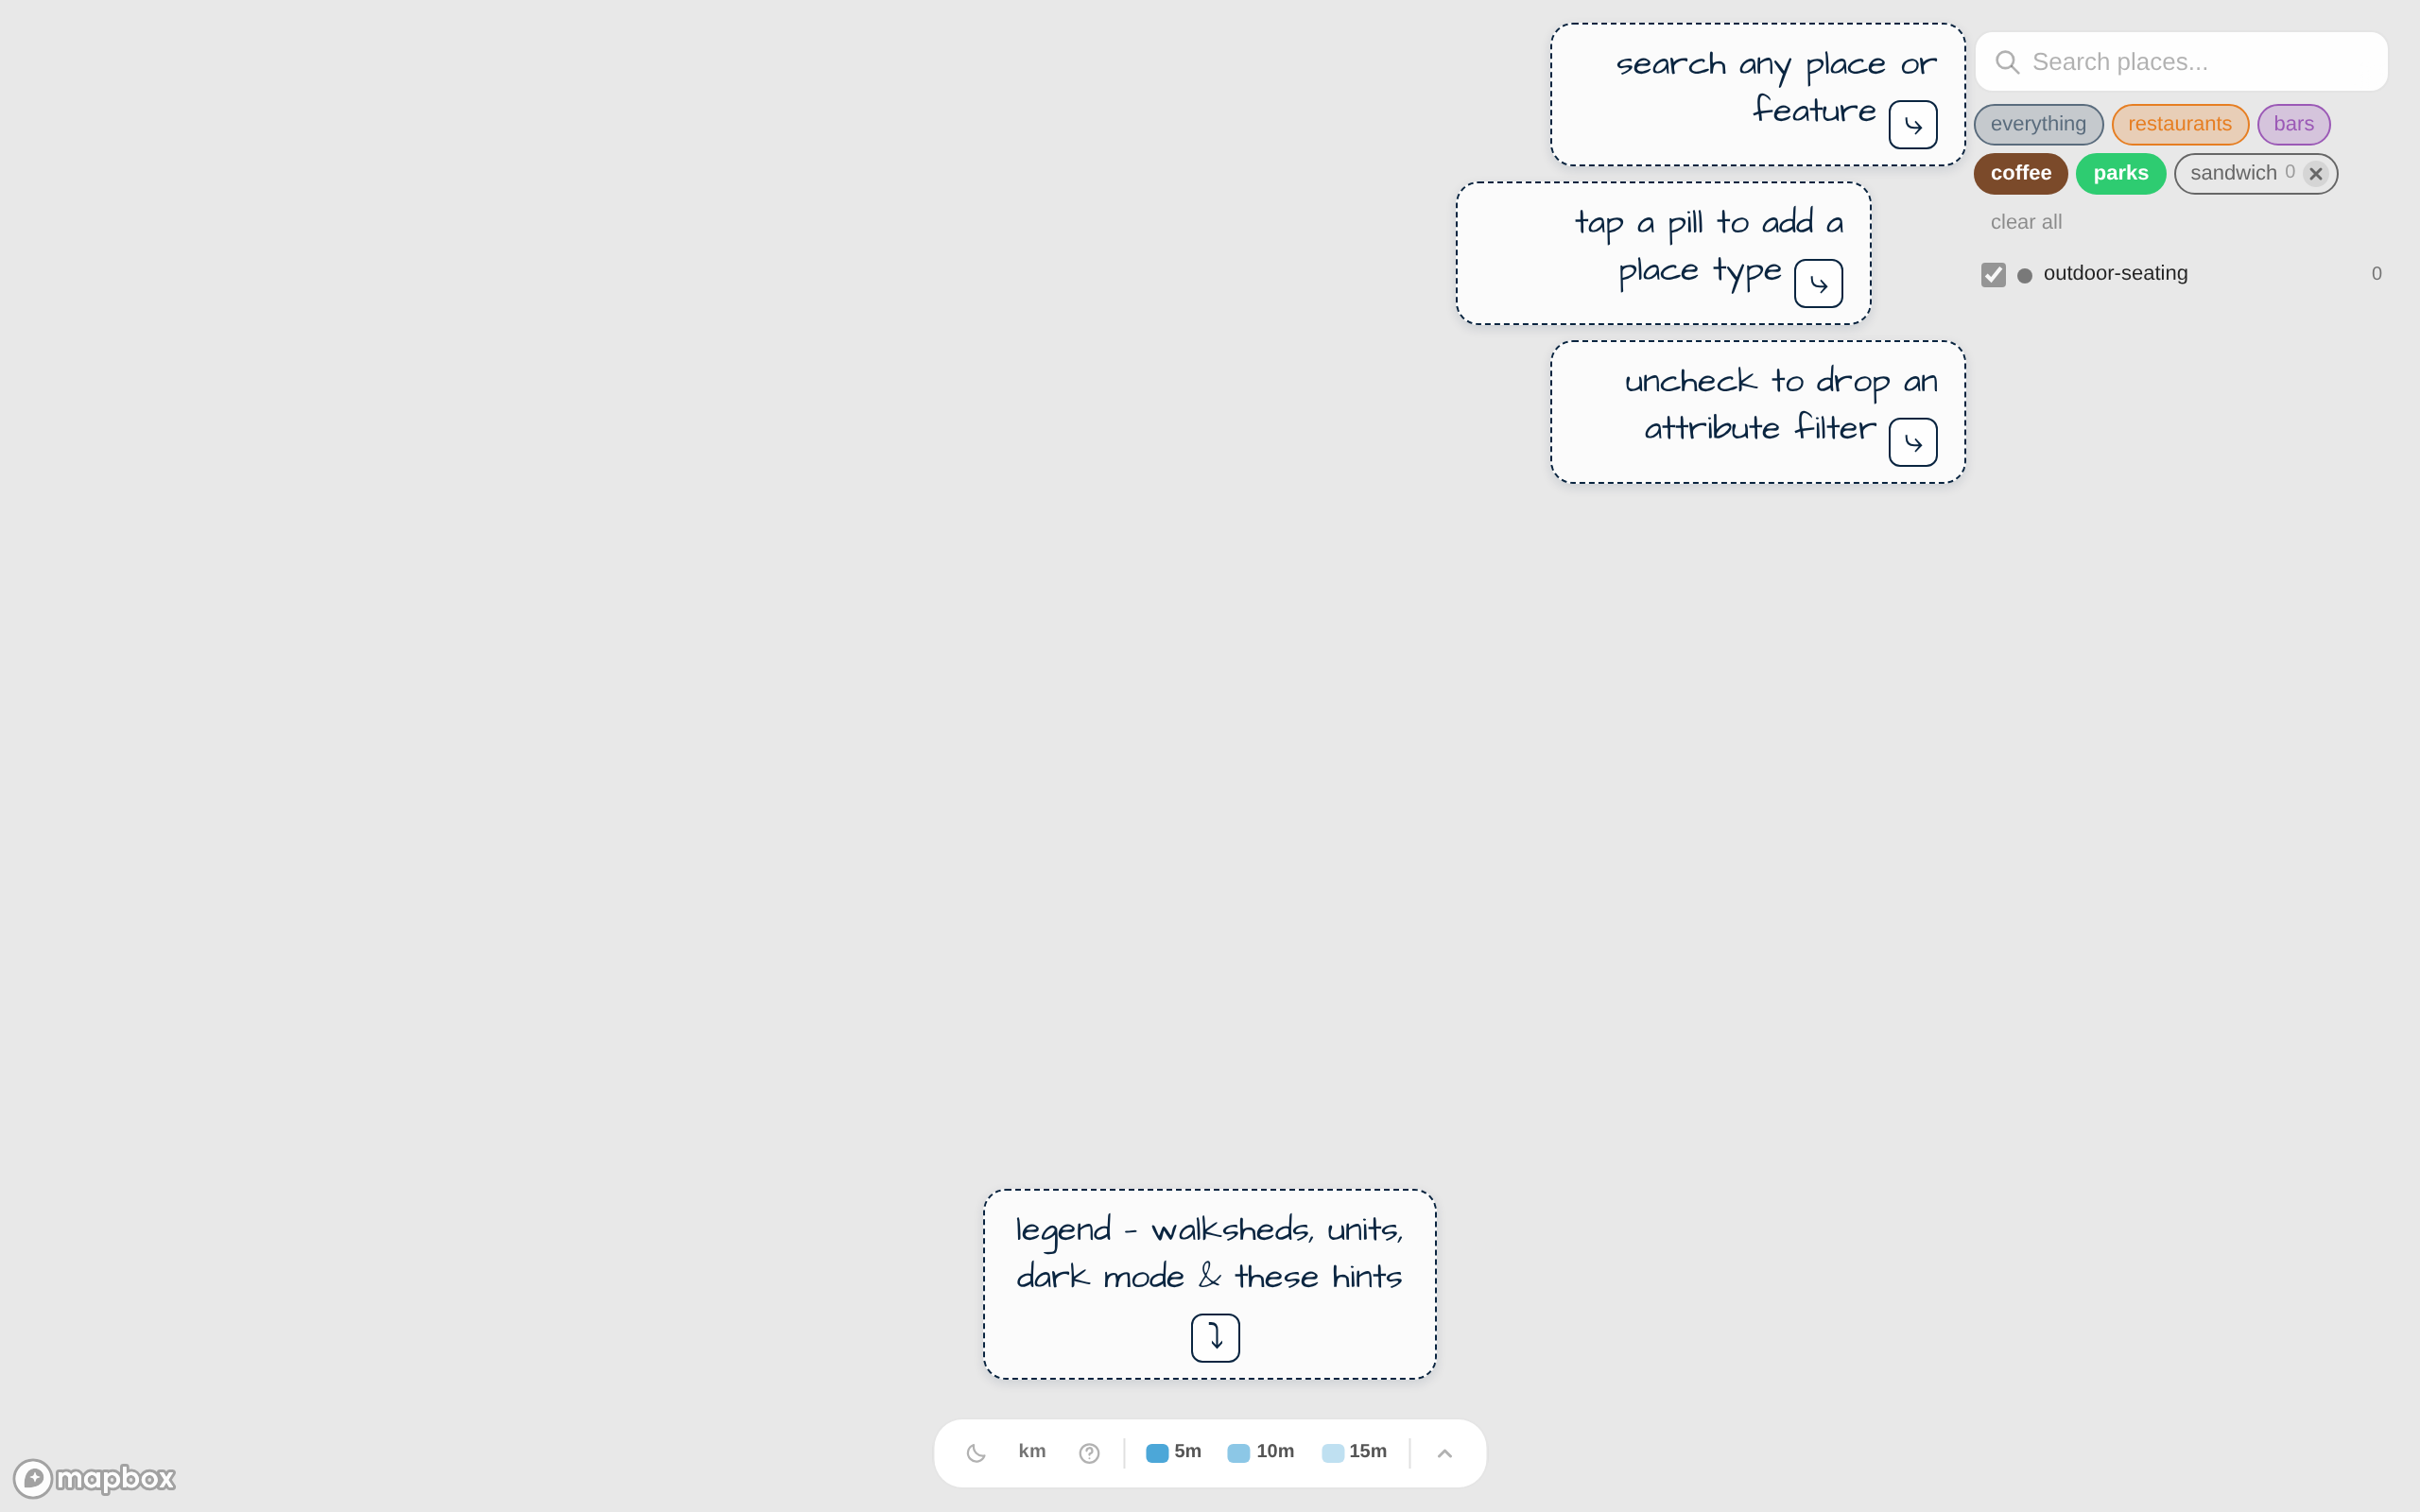
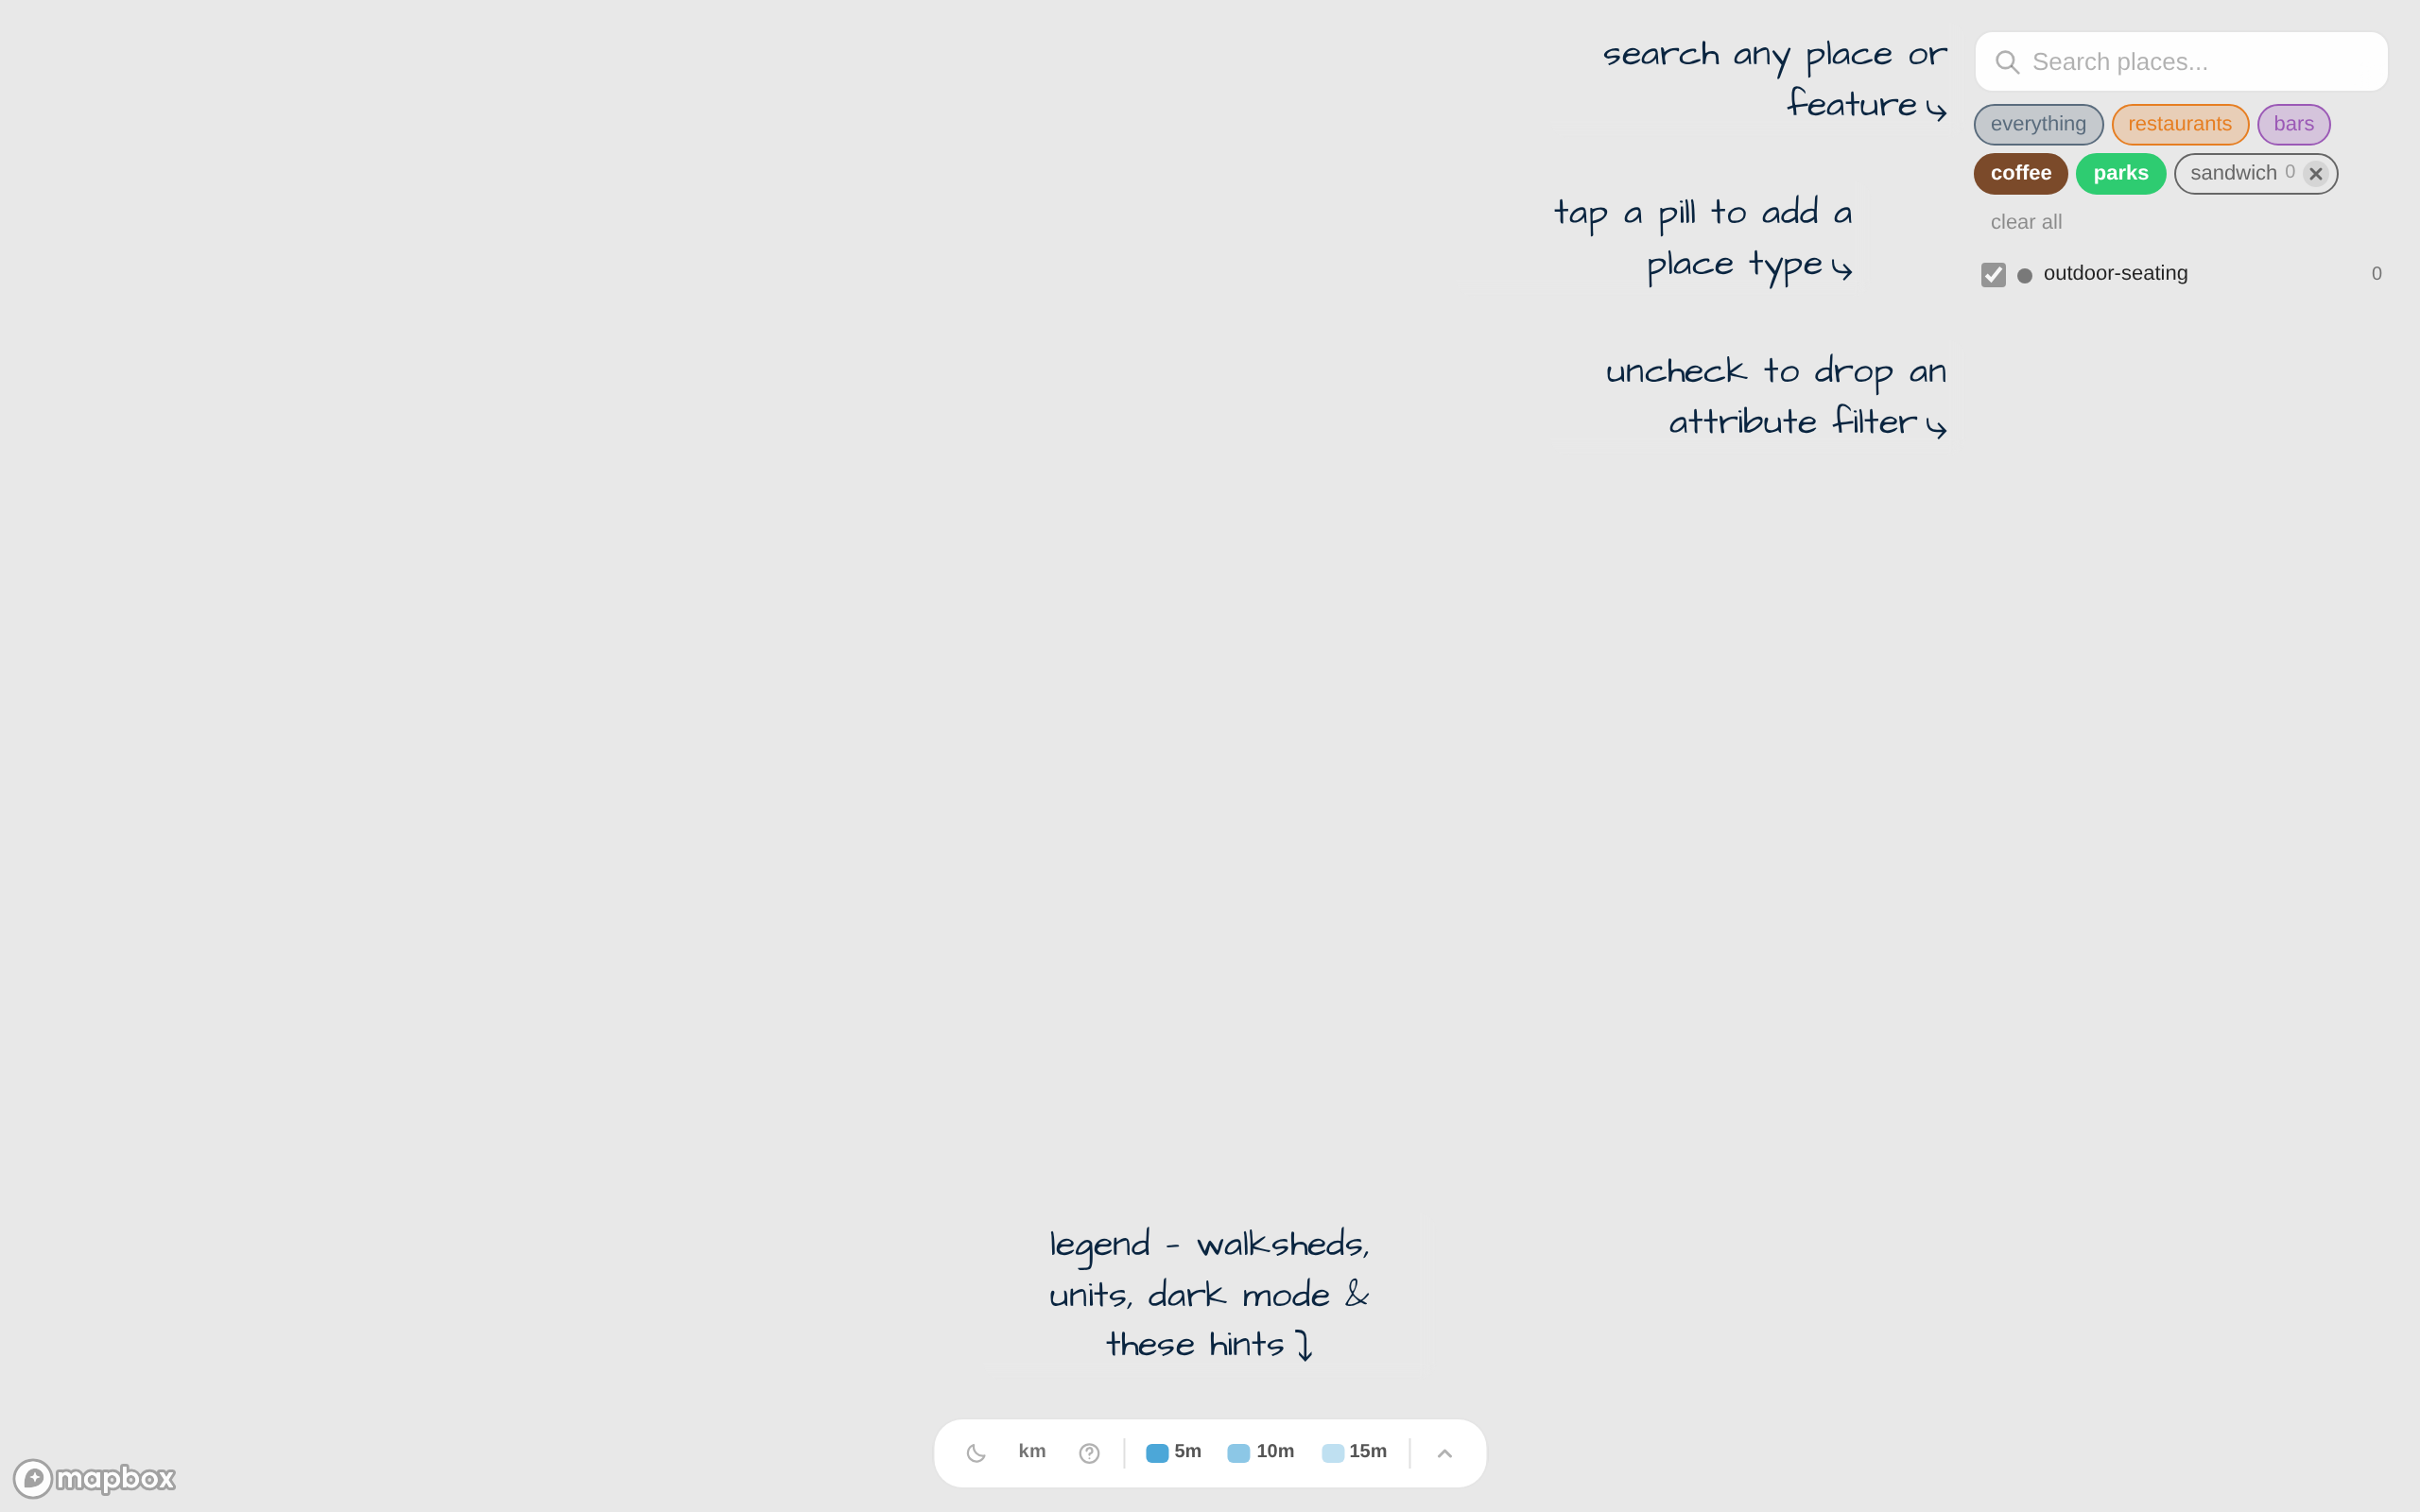
Drop the dashed-card chrome around hint labels and arrow glyphs
Strip the dashed border, padded background, and box-shadow from the
label, and the bordered chip styling from the kbd arrow. The hint is
now just the Architects Daughter text plus the curved cardinal glyph,
rendered on a transparent backdrop with a small backdrop-filter blur
for legibility over real map tiles.

The kbd retains its inline placement at the end of the label content
but loses the keyboard-key affordance, so it reads as the final
typographic token of the sentence rather than a separate UI chip.

Updated demo screenshots for both expanded and collapsed states.

https://claude.ai/code/session_01BJfRR196Lb954yx5ttjYH3

diff --git a/src/walksheds.css b/src/walksheds.css
@@ -603,46 +603,27 @@ body,
 .hint-label {
   display: inline-block;
   font-family: 'Architects Daughter', 'Comic Sans MS', cursive;
-  font-size: 18px;
+  font-size: 19px;
   font-weight: 400;
   line-height: 1.4;
   max-width: 240px;
   color: inherit;
-  padding: 8px 14px;
-  border: 1.5px dashed currentColor;
-  border-radius: 12px;
-  background: rgba(255, 255, 255, 0.82);
-  backdrop-filter: blur(2px);
-  box-shadow: 0 2px 6px rgba(10, 37, 64, 0.12);
+  padding: 4px 10px;
+  border-radius: 10px;
+  backdrop-filter: blur(4px);
+  -webkit-backdrop-filter: blur(4px);
 }
 
-.app.dark .hint-label {
-  background: rgba(10, 20, 35, 0.72);
-  box-shadow: 0 2px 6px rgba(0, 0, 0, 0.4);
-}
-
-/* kbd-styled glyph chip matching the junction-turn arrows on the station
-   pill (.pill-hint kbd). Inlined at the end of each label so the arrow
-   flows with the text inside the card. */
+/* Inline glyph at the end of each label — no chrome, just the character
+   so it reads as the final token of the sentence on the same blurred
+   transparent layer as the text. */
 .hint-arrow {
-  display: inline-flex;
-  align-items: center;
-  justify-content: center;
-  width: 26px;
-  height: 26px;
-  margin-inline-start: 6px;
-  vertical-align: -7px;
-  border: 1.5px solid currentColor;
-  border-radius: 6px;
   font-family: inherit;
-  font-size: 18px;
+  font-size: 22px;
   line-height: 1;
   color: inherit;
-  background: rgba(255, 255, 255, 0.6);
-}
-
-.app.dark .hint-arrow {
-  background: rgba(0, 0, 0, 0.35);
+  margin-inline-start: 4px;
+  vertical-align: -3px;
 }
 
 /* Legend hint: card above the legend, ⤵ glyph inside the label points